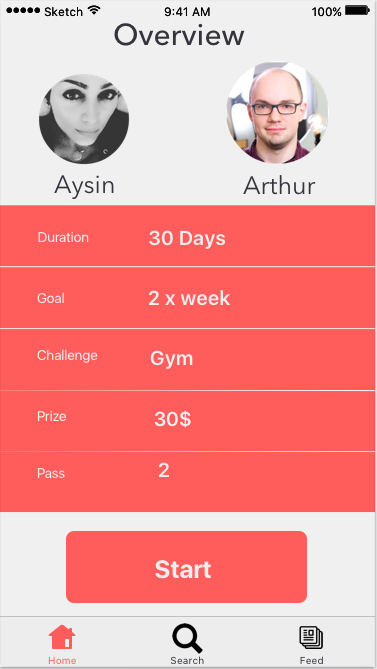
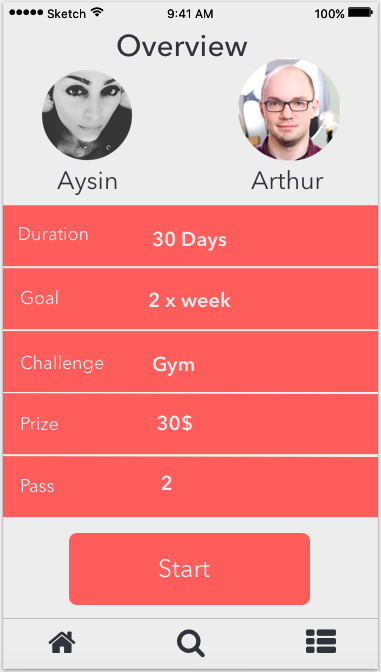
Navbar, scroll to the info, some more styling

diff --git a/src/App.vue b/src/App.vue
@@ -1,5 +1,6 @@
 <template>
   <div>
+    <navbar></navbar>
     <div class="hero-banner">
       <img class="hero-image" src="./assets/logocrown.png">
       <h1 class="hero-text">Welcome to the most challenging app, ever.</h1>
@@ -18,14 +19,21 @@
       <img class="app-image" src="./assets/logged.png">
       <img class="app-image" src="./assets/requested.png">
     </div>
-    <div class="hero-banner">
+    <!-- this part is info about the company -->
+    <div class="app-description">
+      <div class="app-banner">
+        <h2 class="app-text"><a name="about">About</a></h2>
+        <p>Frontend is hard!</p>
+      </div>
     </div>
   </div>
 </template>
 
 <script>
+import navbar from 'components/navbar'
 export default {
   name: 'app',
+  components: {navbar: navbar},
 }
 </script>
 
@@ -35,7 +43,7 @@ body{
   font-family: 'Avenir', Helvetica, Arial, sans-serif;
   -webkit-font-smoothing: antialiased;
   -moz-osx-font-smoothing: grayscale;
-  margin-top: 60px;
+  margin-top: 20px;
 }
 
 /* you can assign all of them to have same style*/
@@ -87,5 +95,6 @@ body{
 .app-text {
   font-weight: normal;
 }
+
 
 </style>

diff --git a/src/components/navbar.vue b/src/components/navbar.vue
@@ -1,11 +1,43 @@
 <template>
   <nav>
-  	<a>
-  		Menu
-  	</a>
   	<ul>
-  		<li><a>Home</a></li>
-  		<li><a>Portfolio</a></li>
+      <!-- fix them w css, by removing the dots and aligning them 'list-style-type check this' -->
+  		<li><a href="#home">Home</a></li>
+  		<li><a href="#about">About</a></li>
   	</ul>
   </nav>
 </template>
+
+
+<script>
+export default {
+  name: 'navbar',
+}
+</script>
+
+
+<style>
+ul {
+    list-style-type: none;
+    margin: 10;
+    padding: 0px 10px 10px 10px;
+}
+
+li {
+    display: inline;
+    padding: 20px;
+}
+
+a {
+  color: #31323A;
+  text-decoration: none;
+  margin-right: 30px;
+  width: 30px;
+  height: 30px;
+  /*-webkit-transition: all 1.5s ease;*/
+}
+
+a:hover {
+	background: #EDEDED;
+}
+</style>
